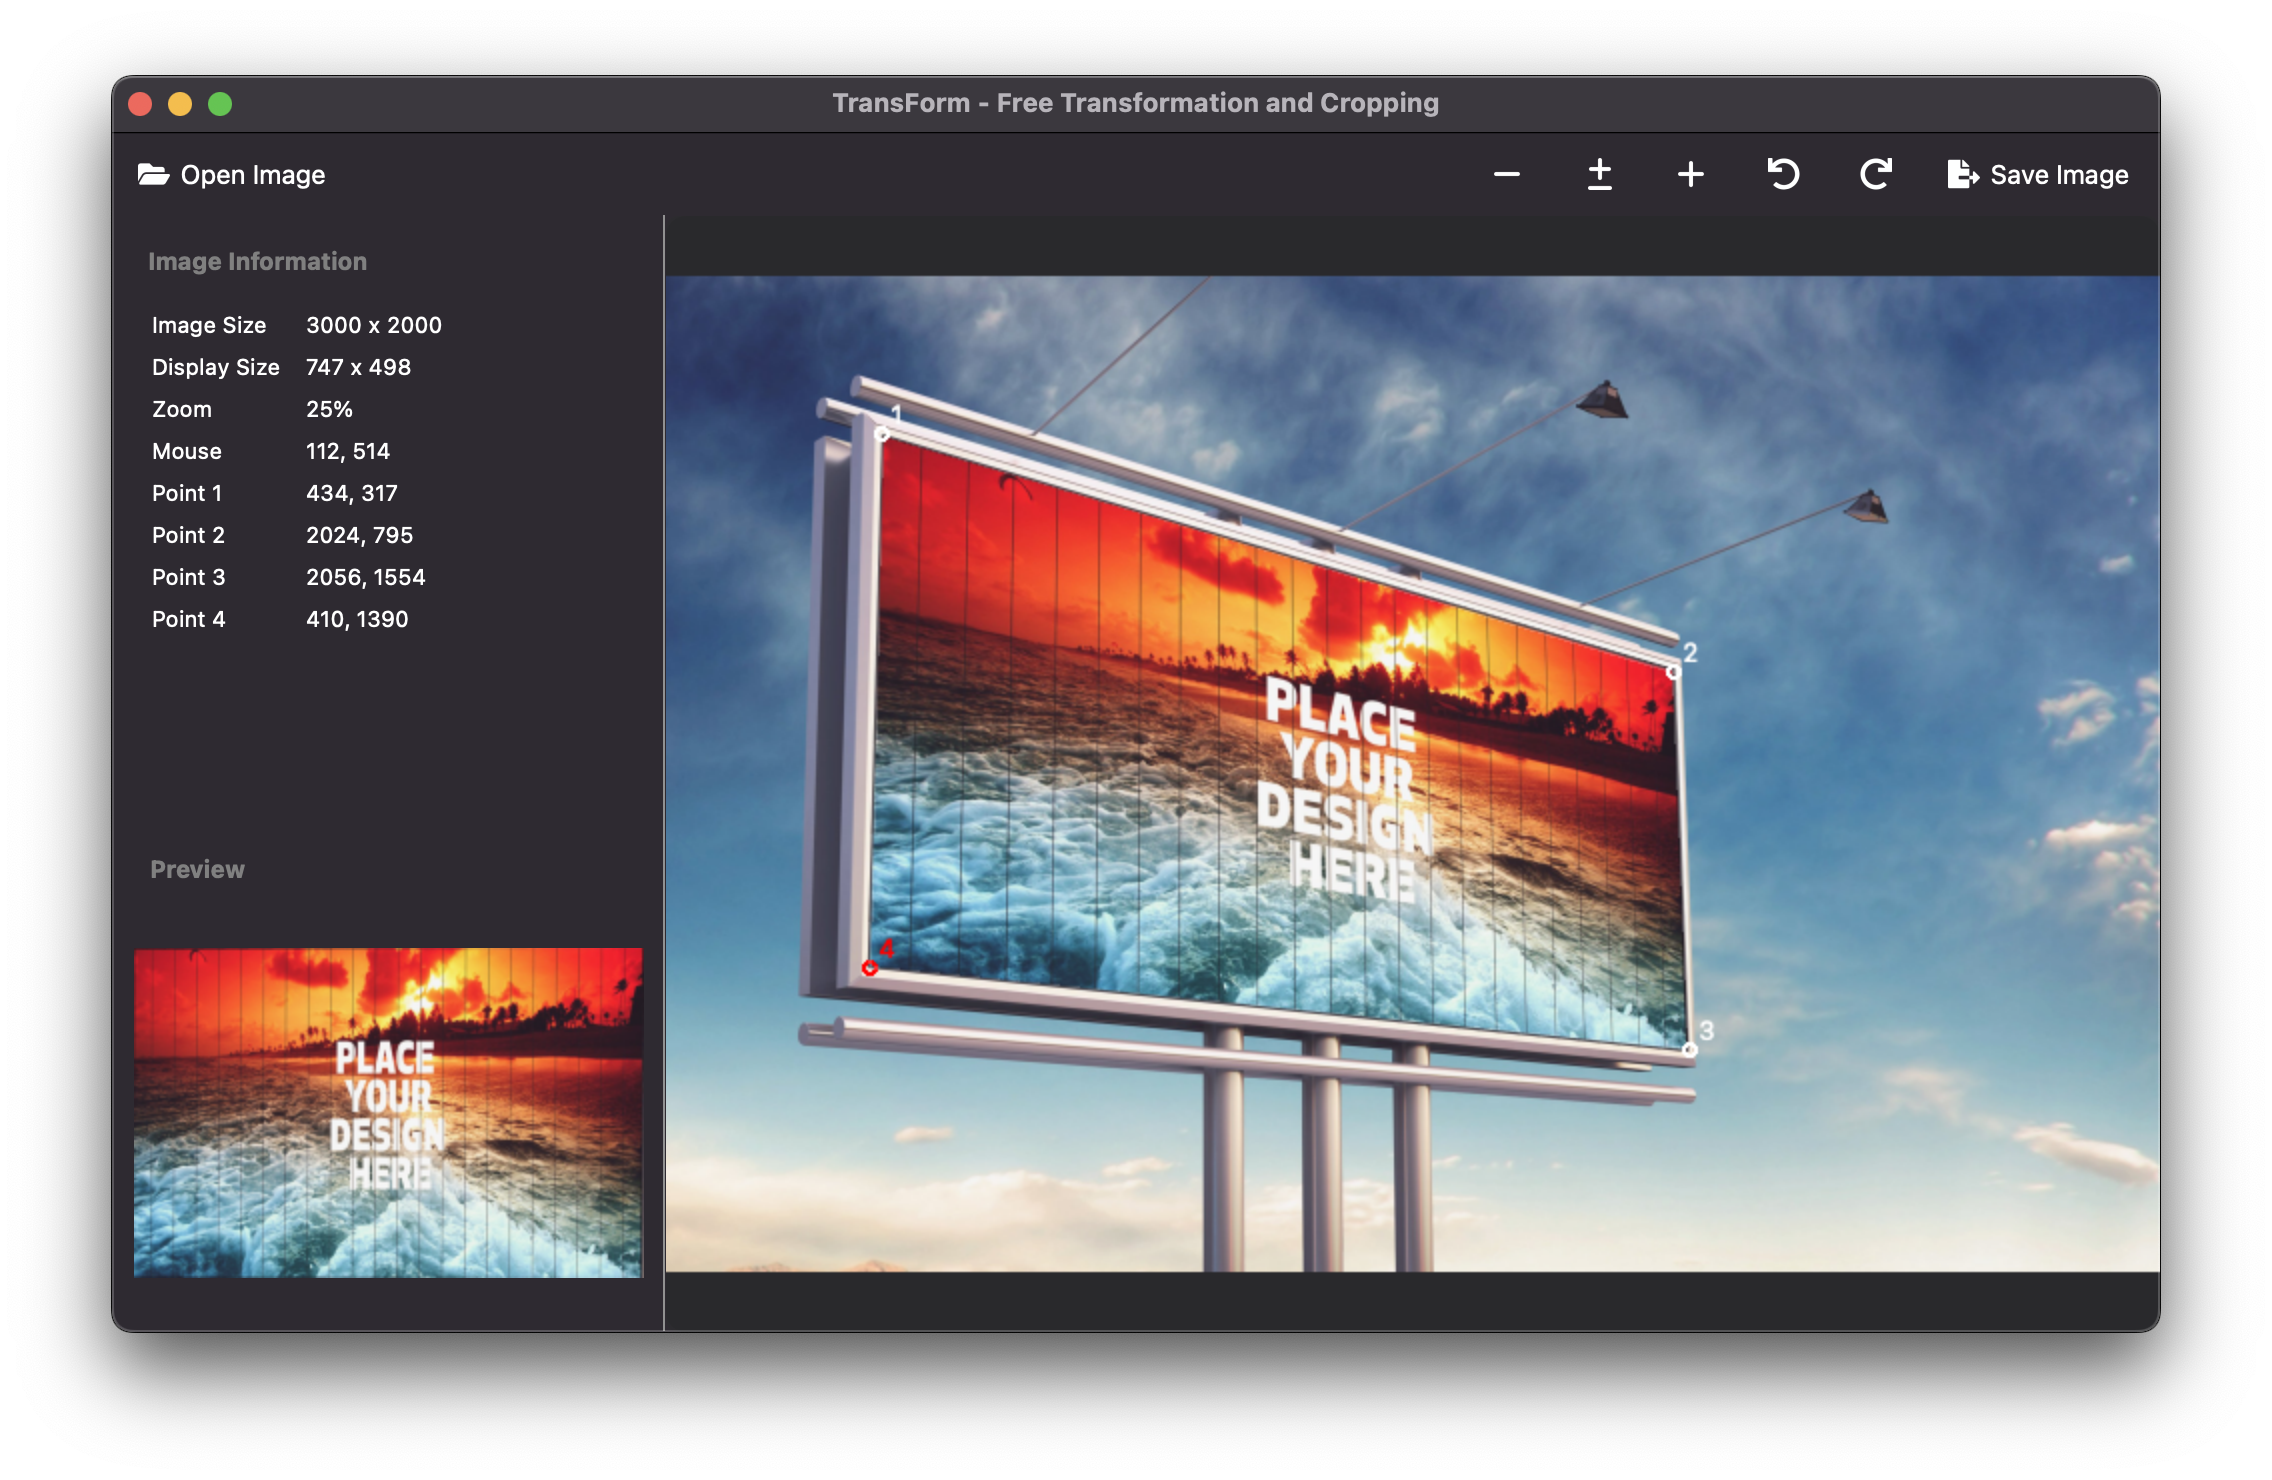
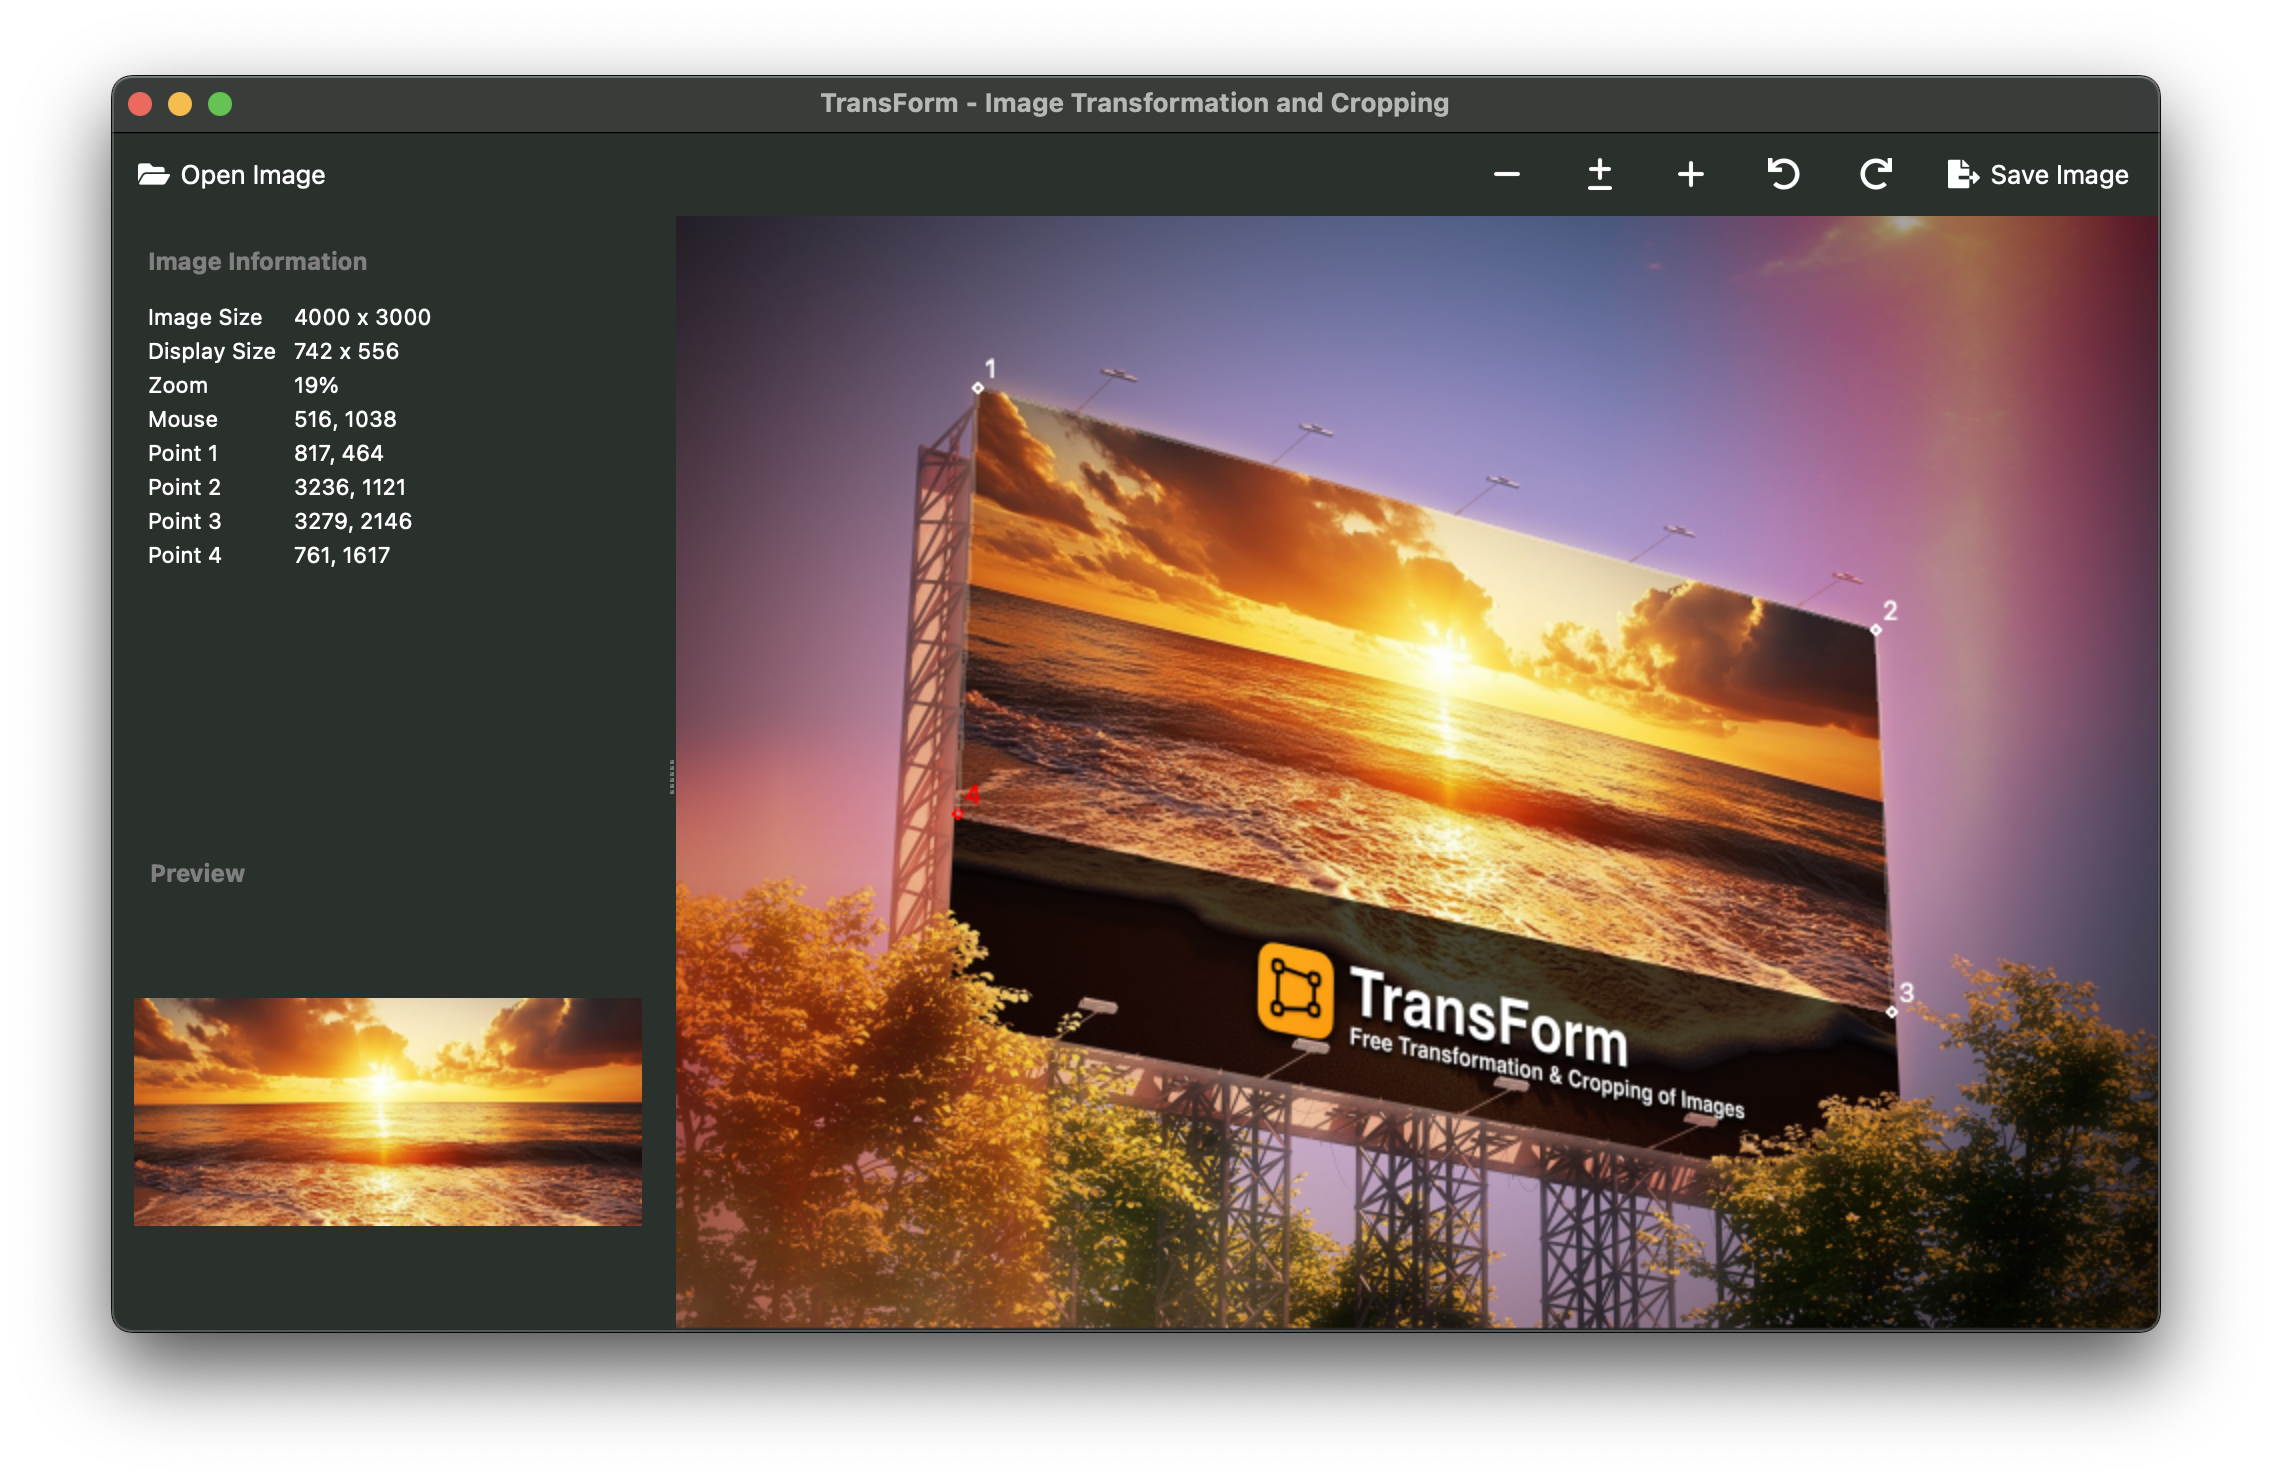
replaced screenshot, updated readme

diff --git a/src/ui/main_window.py b/src/ui/main_window.py
@@ -26,7 +26,7 @@ class TransFormApp(QMainWindow):
 
     def init_ui(self):
         """Initialize the main UI window."""
-        self.setWindowTitle("TransForm - Free Transformation and Cropping")
+        self.setWindowTitle("TransForm - Image Transformation and Cropping")
         self.setGeometry(100, 100, 1024, 600)
         self.setMinimumSize(600, 400)
         

diff --git a/README.md b/README.md
@@ -1,4 +1,6 @@
-# TransForm - Free Transformation and Cropping of Images
+# TransForm - Image Transformation and Cropping
+
+![Icon](icon.png)
 
 A simple macOS desktop application that allows you to apply free transformations and cropping to images by selecting four points.
 
@@ -74,7 +76,7 @@ transform/
 │       ├── icon_utils.py    # Icon loading utilities
 │       └── image_utils.py   # Image processing functions
 ├── icons/                   # Application icons
-└── requirements.txt      # Project dependencies
+└── requirements.txt         # Project dependencies
 ```
 
 ## Usage
